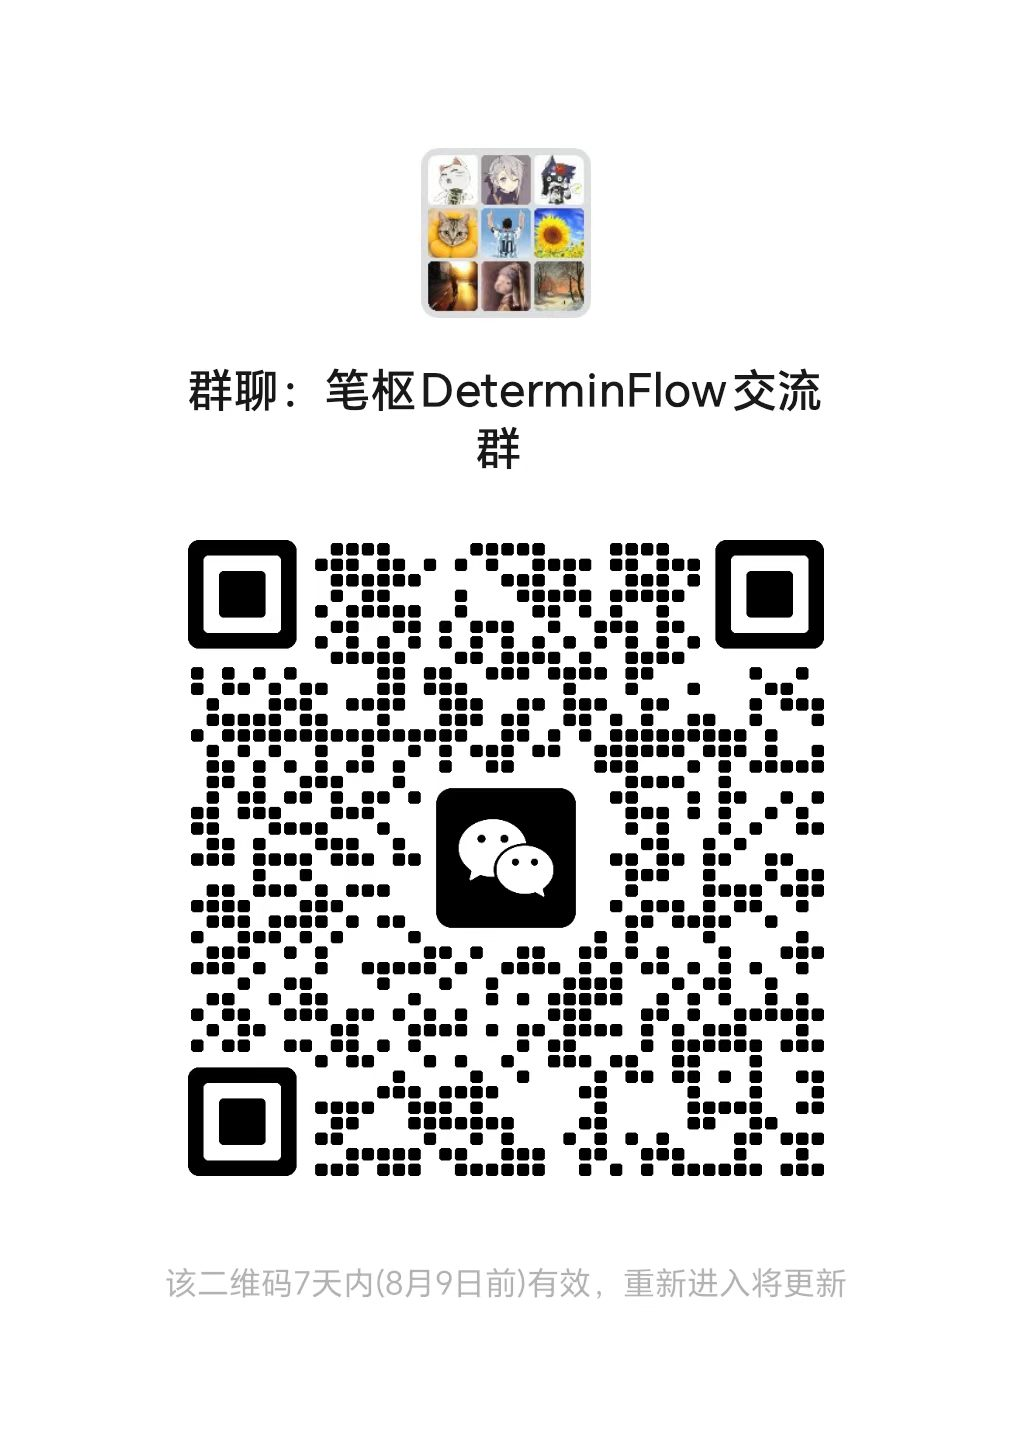
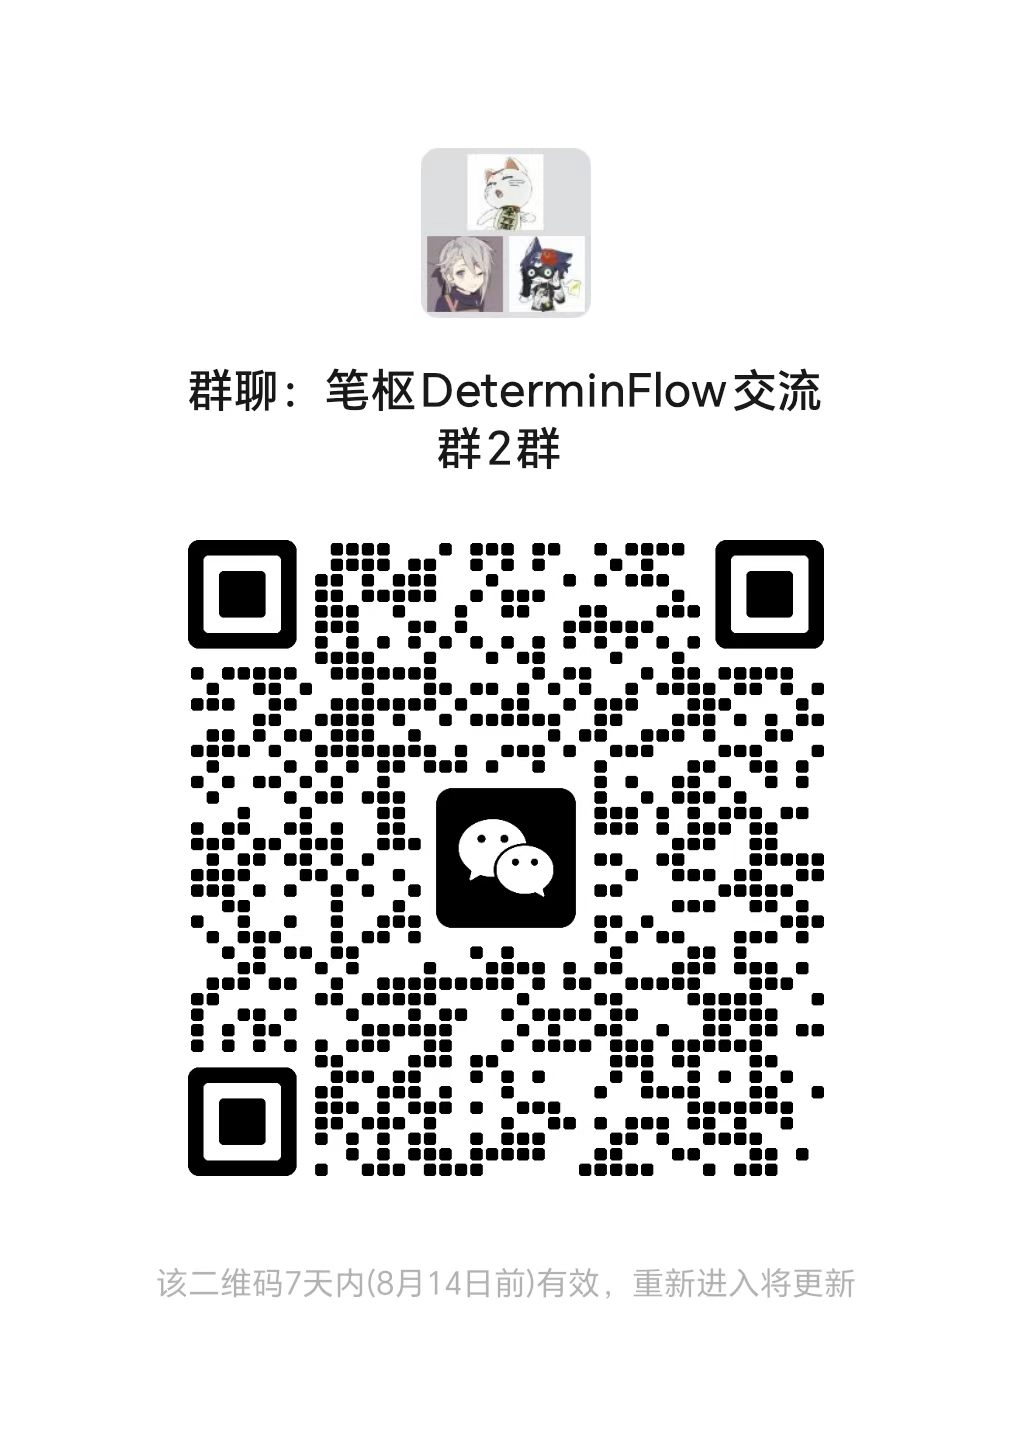
docs(readme): refresh WeChat group QR code

diff --git a/README.en.md b/README.en.md
@@ -283,7 +283,7 @@ docker compose -f docker-compose.yml config -q
   </tr>
   <tr>
     <td align="center"><a href="http://qm.qq.com/cgi-bin/qm/qr?_wv=1027&amp;k=kRVWN5s7xlG8nc_f5fjdrpmd6mucbZoj&amp;authKey=1Xv1LWqUNiW5YgKYPvO8v%2F52s7JxRANMJ17wKrJCQSROw3%2BKf0%2B3BEIxstgEkg%2FM&amp;noverify=0&amp;group_code=945515407">Group ID: <code>945515407</code></a></td>
-    <td align="center">Temporary QR code, valid through August 9, 2026</td>
+    <td align="center">Temporary QR code, valid through August 14, 2026</td>
   </tr>
 </table>
 

diff --git a/README.md b/README.md
@@ -271,7 +271,7 @@ docker compose -f docker-compose.yml config -q
   </tr>
   <tr>
     <td align="center"><a href="http://qm.qq.com/cgi-bin/qm/qr?_wv=1027&amp;k=kRVWN5s7xlG8nc_f5fjdrpmd6mucbZoj&amp;authKey=1Xv1LWqUNiW5YgKYPvO8v%2F52s7JxRANMJ17wKrJCQSROw3%2BKf0%2B3BEIxstgEkg%2FM&amp;noverify=0&amp;group_code=945515407">群号：<code>945515407</code></a></td>
-    <td align="center">临时二维码，2026 年 8 月 9 日前有效</td>
+    <td align="center">临时二维码，2026 年 8 月 14 日前有效</td>
   </tr>
 </table>
 
